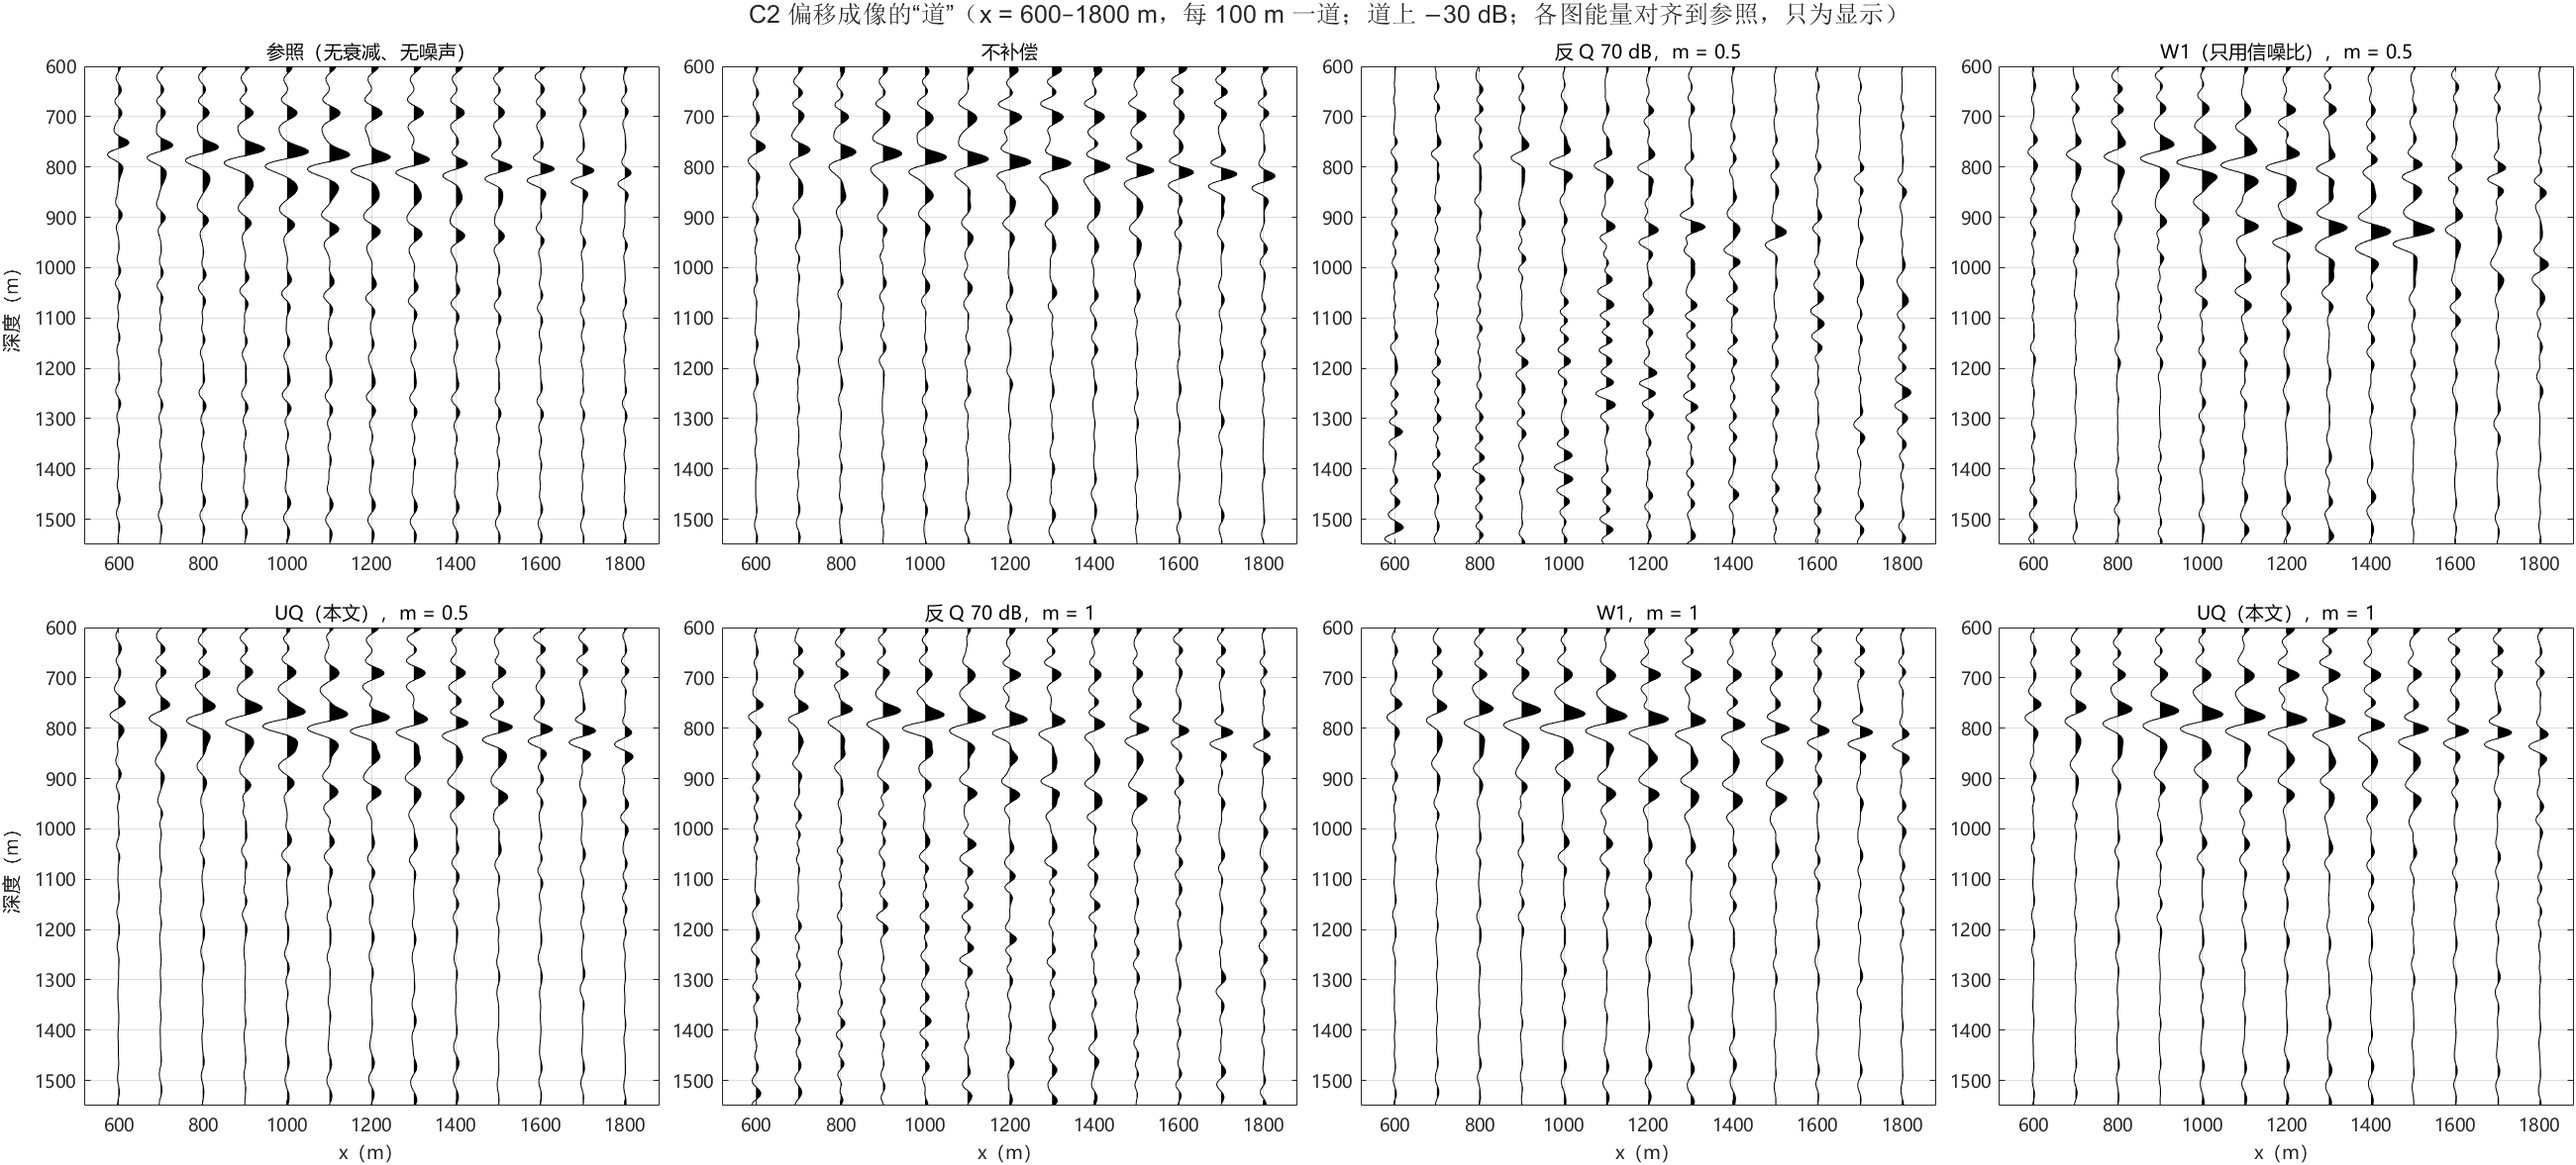
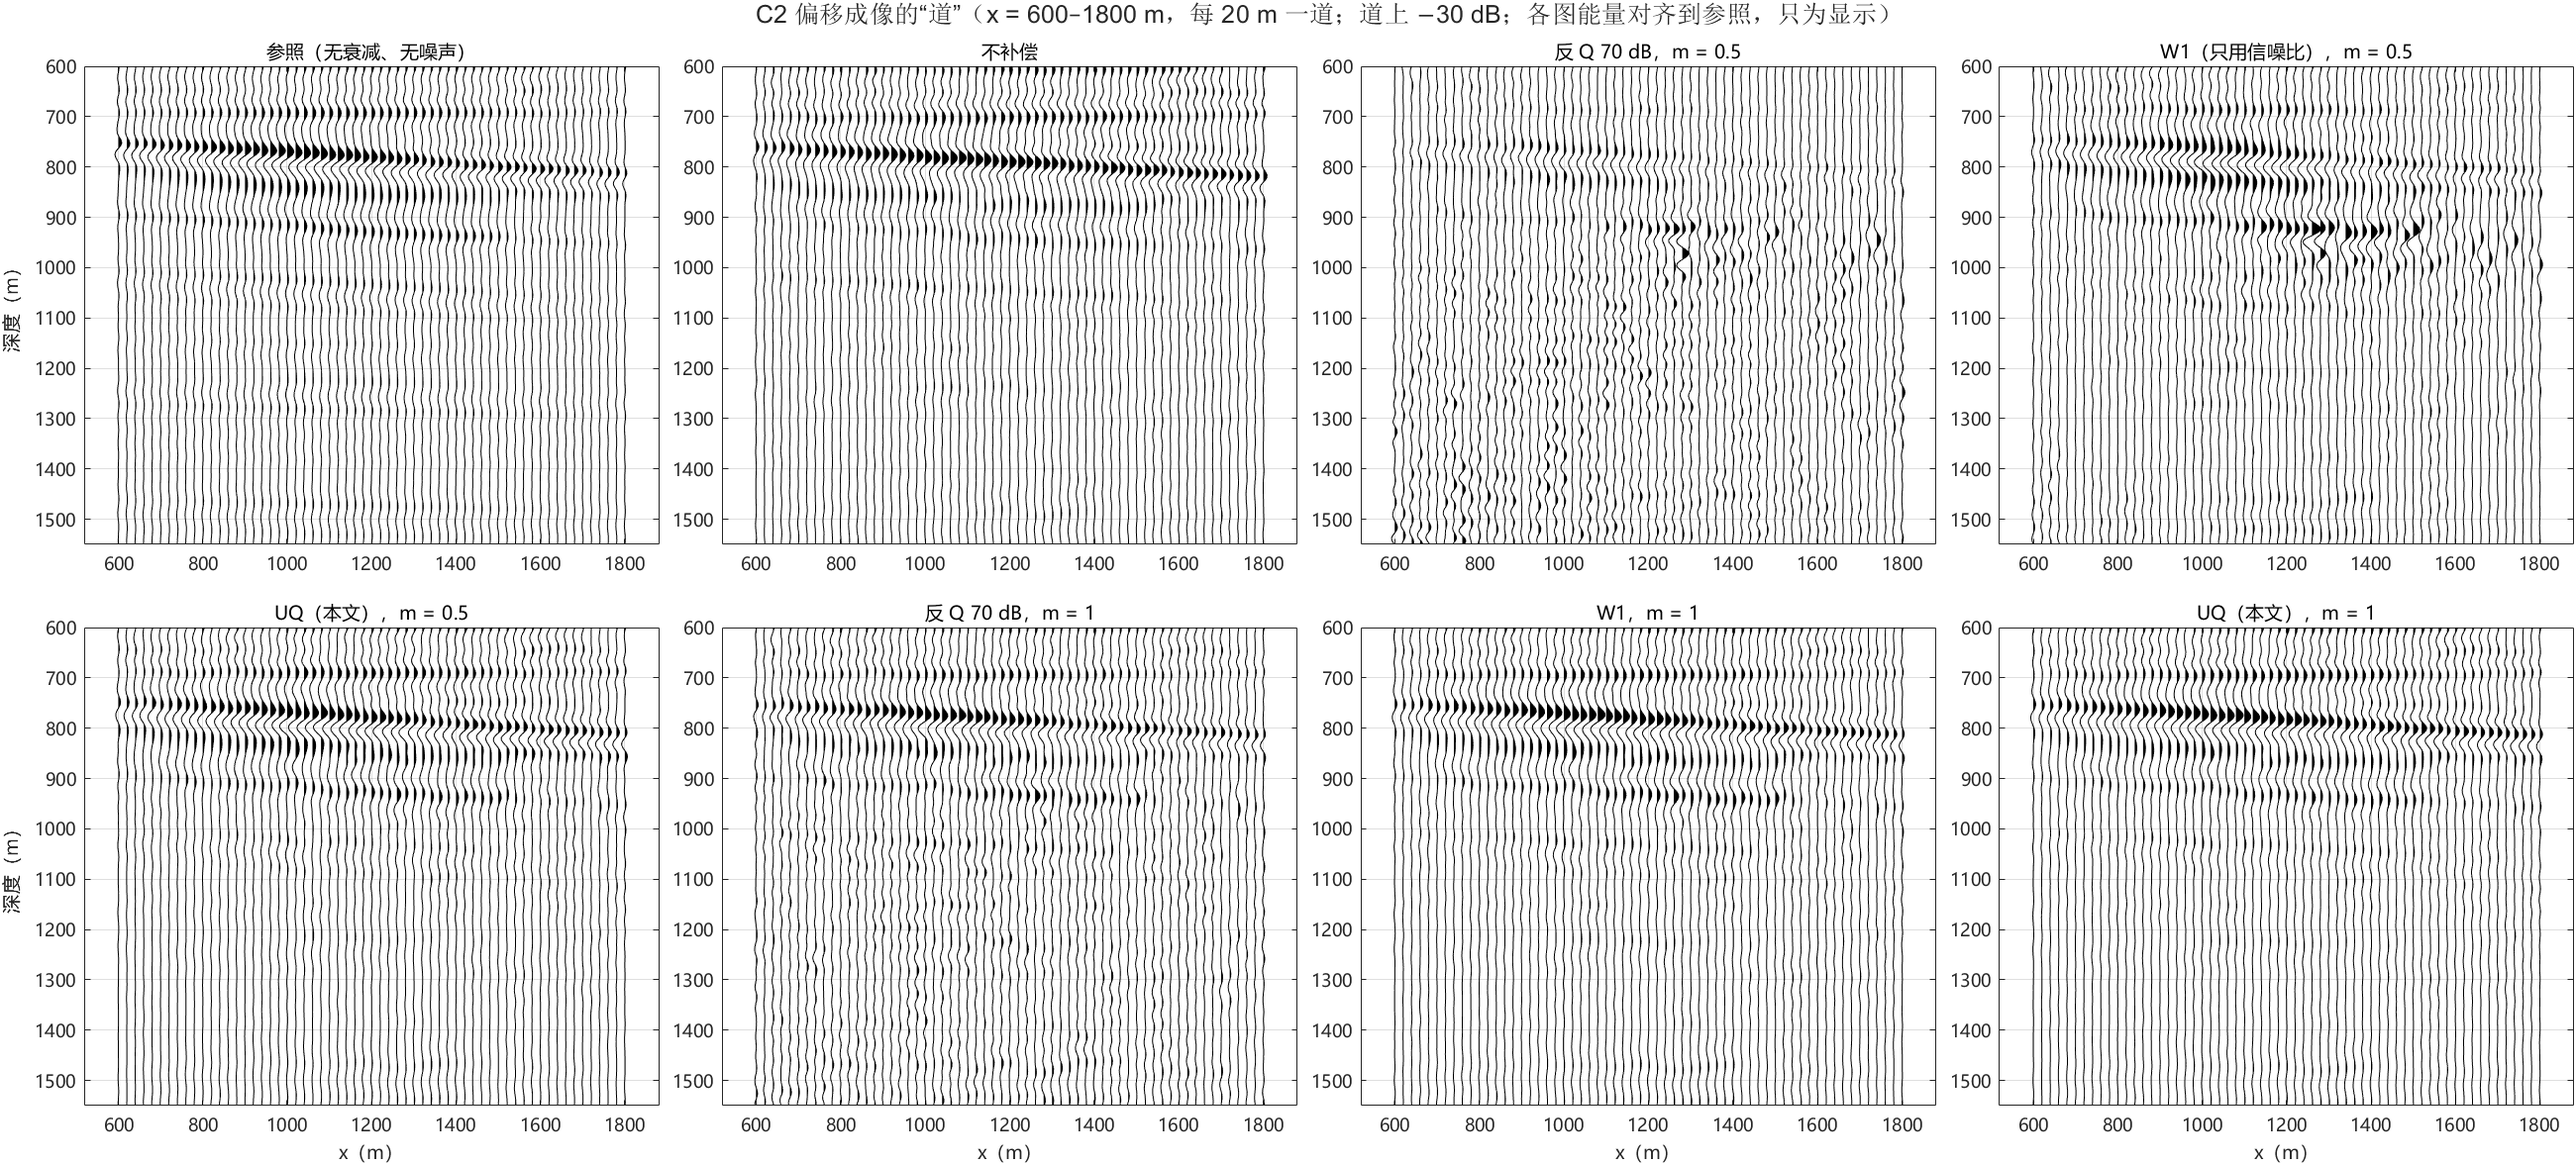
UQ RTM: denser image-trace figure (every 20 m)

diff --git a/地震衰减补偿研究/uq_rtm_20261117/scripts/fig_imagetraces.m b/地震衰减补偿研究/uq_rtm_20261117/scripts/fig_imagetraces.m
@@ -10,18 +10,18 @@ pan={'参照（无衰减、无噪声）',ref;'不补偿',nrm(prep(S.m30.R0,P));
  '反 Q 70 dB，m = 0.5',nrm(img('IQ70',.5));'W1（只用信噪比），m = 0.5',nrm(img('W1',.5));'UQ（本文），m = 0.5',nrm(img('UQW1',.5));
  '反 Q 70 dB，m = 1',nrm(img('IQ70',1));'W1，m = 1',nrm(img('W1',1));'UQ（本文），m = 1',nrm(img('UQW1',1))};
 set(0,'DefaultAxesFontName','Microsoft YaHei','DefaultTextFontName','Microsoft YaHei','DefaultAxesFontSize',9);
-xs=600:100:1800;[~,jx]=min(abs(x(:)-xs),[],1);sc=prctile(abs(ref(iz,jx)),99.5,'all');
+xs=600:20:1800;[~,jx]=min(abs(x(:)-xs),[],1);sc=prctile(abs(ref(iz,jx)),99.5,'all');
 f=figure('Visible','off','Position',[0 0 1900 820]);tl=tiledlayout(2,4,'TileSpacing','compact','Padding','compact');
 for p=1:8
  nexttile;hold on;A=pan{p,2};
  for j=1:numel(jx)
-  s=max(min(A(iz,jx(j))/sc*45,80),-80);x0=xs(j);zz=z(iz)';
-  fill([x0+max(s,0);x0*ones(size(s))],[zz;flipud(zz)],'k','EdgeColor','none');plot(x0+s,zz,'k','LineWidth',.4);
+  s=max(min(A(iz,jx(j))/sc*14,30),-30);x0=xs(j);zz=z(iz)';
+  fill([x0+max(s,0);x0*ones(size(s))],[zz;flipud(zz)],'k','EdgeColor','none');plot(x0+s,zz,'k','LineWidth',.3);
  end
  set(gca,'YDir','reverse');ylim([600 1550]);xlim([520 1880]);box on;grid on;title(pan{p,1});
  if mod(p,4)==1,ylabel('深度（m）');end;if p>4,xlabel('x（m）');end
 end
-title(tl,sprintf('%s 偏移成像的“道”（x = 600–1800 m，每 100 m 一道；道上 −30 dB；各图能量对齐到参照，只为显示）',name));
+title(tl,sprintf('%s 偏移成像的“道”（x = 600–1800 m，每 20 m 一道；道上 −30 dB；各图能量对齐到参照，只为显示）',name));
 exportgraphics(f,fullfile(P.root,'figures',['imagetraces_' name '.png']),'Resolution',140);close(f);
 % one trace at x = 1300 m, overlaid
 [~,j]=min(abs(x-1300));zz=z(iz);
